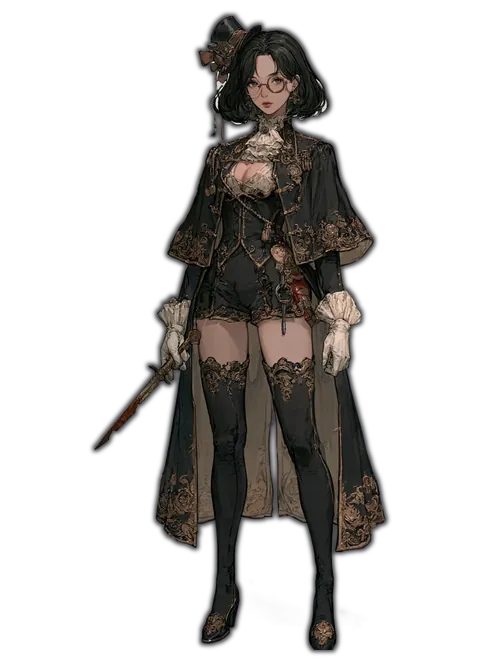
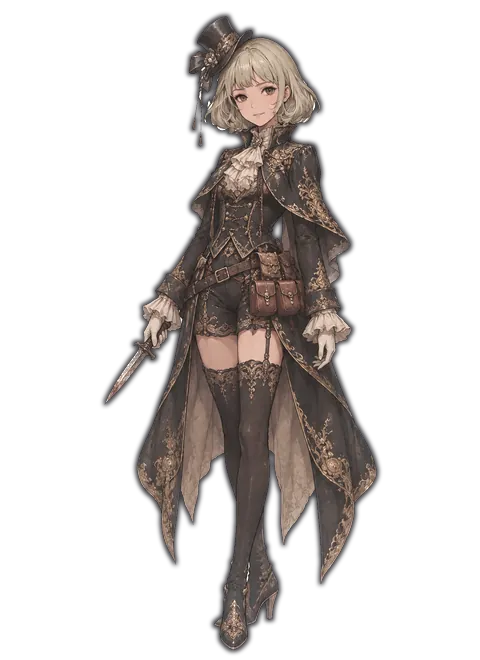
絵: 転職の立ち絵4枚（闘士・怪盗の男女）。怪盗・女の顔の位置は手で決めた

diff --git a/scripts/art/build_art.py b/scripts/art/build_art.py
@@ -188,6 +188,7 @@ FACES = {
     ('lancer', 'female'): (0.566, 0.145, 0.15),
     ('archmage', 'male'): (0.467, 0.152, 0.15), ('archmage', 'female'): (0.447, 0.144, 0.15),
     ('hexer', 'male'): (0.471, 0.144, 0.15), ('hexer', 'female'): (0.414, 0.152, 0.15),
+    ('phantomThief', 'female'): (0.50, 0.128, 0.16),
 }
 # 帽子・冠・鎌などで自動の位置がずれる職は、目で確認して決めた値（J4）
 FACES.update({
@@ -198,7 +199,7 @@ FACES.update({
 })
 # 穴埋め（fill_holes）をしない元画像。重装衛士は、細い槍を戻すため切り抜きを直している（.cut の絵を
 # scripts/art/fix_thin_cut.py で作り直し済み）。槍と足の間の背景が穴として埋まるので、穴埋めをしない
-NO_FILL_HOLES = {'bulwark-female', 'bulwark-male', 'lancer-male', 'lancer-female', 'archer-male', 'archer-female', 'tamer-male', 'tamer-female', 'archmage-male', 'archmage-female', 'hexer-male', 'hexer-female'}
+NO_FILL_HOLES = {'bulwark-female', 'bulwark-male', 'lancer-male', 'lancer-female', 'archer-male', 'archer-female', 'tamer-male', 'tamer-female', 'archmage-male', 'archmage-female', 'hexer-male', 'hexer-female', 'brawler-male', 'brawler-female', 'phantomThief-male', 'phantomThief-female'}
 # 表に無い職は、この値（x=0.5 は頭の位置を自動で探す）
 FACE_DEFAULT = (0.5, 0.085, 0.17)
 
